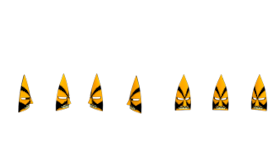
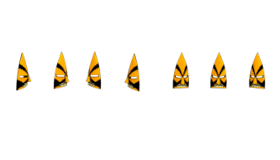
Orange mask alignment: settle at (16,-34), playtest-confirmed

diff --git a/scripts/build_vv1_heathen_mask_sheets.py b/scripts/build_vv1_heathen_mask_sheets.py
@@ -72,7 +72,7 @@ PACKED = "packed-atlas"
 
 MASK_OFFSETS = {
     "blue": (24, -32),  # playtest-confirmed alignment (was (20,-11), sat too low+left)
-    "orange": (18, -12),
+    "orange": (16, -34),  # playtest-confirmed alignment
     "red": (18, -29),
     "purple": (4, -13),
     # Chief is a PACKED ATLAS, not a strip. Its seven frames sit at irregular
